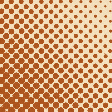
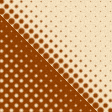
Add Cutout pattern and deepen Amber and Crimson palettes

diff --git a/src/perforated-screen.js b/src/perforated-screen.js
@@ -1,0 +1,51 @@
+// CPU adaptation of Paper Shaders' halftone-dots getCircleWithHole treatment.
+// https://github.com/paper-design/shaders/blob/main/packages/shaders/src/shaders/halftone-dots.ts
+// Apache-2.0; license and NOTICE: public/licenses/paper-shaders/.
+// Changes: cached centre samples, rotated screen, analytic pixel antialiasing,
+// cancellable row chunks, and preservation of the source image's alpha.
+import { samplePaperDarkness } from './paper-screen.js';
+
+export function* renderPerforatedRows(ctx, source, width, height, settings, ink, paper) {
+  const image = ctx.createImageData(width, height);
+  const out = image.data;
+  const cell = Math.max(1, settings.cellSize);
+  const cos = Math.cos(settings.angle), sin = Math.sin(settings.angle);
+  const offsetX = Math.ceil((width * Math.abs(cos) + height * Math.abs(sin)) / (2 * cell)) + 1;
+  const offsetY = Math.ceil((width * Math.abs(sin) + height * Math.abs(cos)) / (2 * cell)) + 1;
+  const stride = offsetX * 2 + 1;
+  const radii = new Float32Array(stride * (offsetY * 2 + 1)).fill(NaN);
+  for (let y = 0; y < height; y++) {
+    const py = y + .5 - height / 2;
+    for (let x = 0; x < width; x++) {
+      const px = x + .5 - width / 2;
+      const gx = (px * cos + py * sin) / cell;
+      const gy = (-px * sin + py * cos) / cell;
+      const cx = Math.round(gx), cy = Math.round(gy);
+      const index = (cy + offsetY) * stride + cx + offsetX;
+      if (Number.isNaN(radii[index])) {
+        const sx = (cx * cos - cy * sin) * cell + width / 2;
+        const sy = (cx * sin + cy * cos) * cell + height / 2;
+        radii[index] = .75 * samplePaperDarkness(source, width, height, sx, sy, settings);
+      }
+      const radius = radii[index];
+      const hole = radius >= .5;
+      const r = hole ? radius - .5 : radius;
+      const dx = gx - cx, dy = gy - cy;
+      const distance = Math.hypot(dx, dy);
+      const aa = Math.max(.5, (Math.abs(dx) + Math.abs(dy)) / Math.max(distance, .0001)) / cell;
+      const t = Math.max(0, Math.min(1, (r - distance + aa) / (2 * aa)));
+      const circle = t * t * (3 - 2 * t);
+      const mask = hole ? 1 - circle : circle;
+      const alpha = mask * ink[3] / 255;
+      const background = paper[3] / 255 * (1 - alpha);
+      const total = alpha + background;
+      const i = (y * width + x) * 4;
+      for (let channel = 0; channel < 3; channel++) {
+        out[i + channel] = total ? (ink[channel] * alpha + paper[channel] * background) / total : 0;
+      }
+      out[i + 3] = total * source[i + 3];
+    }
+    if (y % 24 === 23) yield (y + 1) / height;
+  }
+  ctx.putImageData(image, 0, 0);
+}

diff --git a/test/halftone-renderer.test.js b/test/halftone-renderer.test.js
@@ -194,3 +194,36 @@ test('Dots ignore invisible RGB when sampling and retain source alpha at rotated
     for (let i = 3; i < source.length; i += 4) assert.equal(pixels[i], source[i]);
   }
 });
+
+test('Perforated changes round marks into holes in filled cells and preserves alpha', async () => {
+  const width = 96, height = 96;
+  const source = new Uint8ClampedArray(width * height * 4);
+  const fill = (value) => {
+    for (let i = 0; i < source.length; i += 4) {
+      source[i] = source[i + 1] = source[i + 2] = value;
+      source[i + 3] = 255;
+    }
+  };
+  const perforated = { ...settings, cellSize: 16, screenStyle: 'perforated', invert: true };
+  const a = createCanvas(width, height).getContext('2d');
+  const b = createCanvas(width, height).getContext('2d');
+  fill(128);
+  renderHalftoneSync(a, source, width, height, perforated);
+  assert.ok(a.getImageData(48, 48, 1, 1).data[0] < 10, 'midtone has a round ink mark');
+  assert.ok(a.getImageData(55, 55, 1, 1).data[0] > 245, 'its cell corners remain paper');
+  fill(255);
+  renderHalftoneSync(a, source, width, height, perforated);
+  assert.ok(a.getImageData(48, 48, 1, 1).data[0] > 245, 'bright cell has a paper hole');
+  assert.ok(a.getImageData(55, 55, 1, 1).data[0] < 10, 'surrounding cell is filled with ink');
+  for (let i = 3; i < source.length; i += 4) source[i] = [0, 64, 128, 255][(i >> 2) % 4];
+  const rotated = { ...perforated, angle: .49 };
+  renderHalftoneSync(a, source, width, height, rotated);
+  await renderHalftoneAsync(b, source, width, height, rotated);
+  const pixels = a.getImageData(0, 0, width, height).data;
+  assert.deepEqual(pixels, b.getImageData(0, 0, width, height).data);
+  for (let i = 3; i < source.length; i += 4) assert.equal(pixels[i], source[i]);
+  let cancelled = false;
+  assert.deepEqual(await renderHalftoneAsync(b, source, width, height, rotated, {
+    onProgress() { cancelled = true; }, shouldCancel: () => cancelled
+  }), { cancelled: true });
+});

diff --git a/test/studio-panel.test.js b/test/studio-panel.test.js
@@ -1254,7 +1254,7 @@ test('preset menu shows four rows and a next-row peek within the viewport', asyn
   } finally { cleanup(); popup.remove(); }
 });
 
-test('Pattern exposes Organic, Dots and Lines with the right selection', () => {
+test('Pattern exposes Organic, Dots, Cutout and Lines with the right selection', () => {
   state.settings.dotShape = 'round';
   state.settings.screenStyle = 'paper';
   emit();
@@ -1263,11 +1263,26 @@ test('Pattern exposes Organic, Dots and Lines with the right selection', () => {
   assert.equal(section.querySelector('.dialkit-folder-title').textContent, 'Pattern');
   assert.equal(pattern.parentElement.querySelector('.segmented-field-label'), null);
   assert.deepEqual([...pattern.querySelectorAll('button')].map(button => button.textContent),
-    ['Organic', 'Dots', 'Lines']);
+    ['Organic', 'Dots', 'Cutout', 'Lines']);
   assert.equal(pattern.querySelector('[aria-checked="true"]').textContent, 'Organic');
   pattern.querySelector('[data-value="round"]').click();
   assert.deepEqual(settingsChanged.at(-1), ['pattern', 'round']);
   state.settings.screenStyle = 'classic';
   emit();
   assert.equal(pattern.querySelector('[aria-checked="true"]').textContent, 'Dots');
+});
+
+test('Cutout remains selectable alongside the other patterns', () => {
+  state.settings.screenStyle = 'perforated';
+  state.settings.dotShape = 'round';
+  emit();
+  const pattern = document.querySelector('[role="radiogroup"][aria-label="Pattern"]');
+  assert.equal(pattern.parentElement.hidden, false);
+  assert.equal(pattern.querySelectorAll('button').length, 4);
+  assert.equal(pattern.querySelector('[aria-checked="true"]').textContent, 'Cutout');
+  assert.ok(document.querySelector('[role="slider"][aria-label="Cell size"]'));
+  state.settings.screenStyle = 'paper';
+  emit();
+  assert.equal(pattern.parentElement.hidden, false);
+  assert.equal(pattern.querySelector('[aria-checked="true"]').textContent, 'Organic');
 });

diff --git a/src/paper-screen.js b/src/paper-screen.js
@@ -11,7 +11,7 @@ const profile = Float32Array.from({ length: PROFILE_SIZE + 1 }, (_, i) => {
 });
 const clamp = (n, lo, hi) => Math.max(lo, Math.min(hi, n));
 
-function sampleDarkness(source, width, height, x, y, settings) {
+export function samplePaperDarkness(source, width, height, x, y, settings) {
   // Bilinear sampling, like the source texture in Paper's shader. Composite
   // samples onto white before interpolation so invisible RGB cannot add ink.
   x = clamp(x - .5, 0, width - 1);
@@ -23,7 +23,7 @@ function sampleDarkness(source, width, height, x, y, settings) {
     (y1 * width + x0) * 4, (y1 * width + x1) * 4];
   const weights = [(1 - tx) * (1 - ty), tx * (1 - ty), (1 - tx) * ty, tx * ty];
   // Paper's default contrast .4 maps to a sigmoid slope of 3.7947.
-  const slope = 15 * Math.pow(.4, 1.5) * settings.contrast;
+  const slope = (settings.screenStyle === 'perforated' ? 15 : 15 * Math.pow(.4, 1.5)) * settings.contrast;
   let luma = 0;
   for (let channel = 0; channel < 3; channel++) {
     let value = 0;
@@ -65,7 +65,7 @@ export function* renderPaperRows(ctx, source, width, height, settings, ink, pape
         if ((gx + gy) % 2 !== 0) continue;
         const cx = (gx * cos - gy * sin) * pitch + width / 2;
         const cy = (gx * sin + gy * cos) * pitch + height / 2;
-        const radius = maxRadius * sampleDarkness(source, width, height, cx, cy, settings);
+        const radius = maxRadius * samplePaperDarkness(source, width, height, cx, cy, settings);
         if (radius < .001) continue;
         const x0 = Math.max(-1, Math.ceil(cx - radius - .5));
         const x1 = Math.min(width, Math.floor(cx + radius - .5));

diff --git a/script.js b/script.js
@@ -269,10 +269,10 @@ const builtInPresets = {
     microDot: 0,
     jitter: 0,
     seed: 11,
-    inkColor: "#b8202a",
+    inkColor: "#9f0019",
     paperColor: "#f5f5f5"
   },
-  // A coarser diagonal screen of textured dots and grain on warm paper.
+  // A diagonal cutout screen with burnt amber ink and grain on warm paper.
   orange: {
     quality: "high",
     cellSize: 7,
@@ -285,7 +285,8 @@ const builtInPresets = {
     jitter: 18,
     seed: 42,
     dotShape: "round",
-    inkColor: "#ad551e",
+    screenStyle: "perforated",
+    inkColor: "#913f00",
     paperColor: "#f3dfbc",
     grainStrength: 14
   },
@@ -2439,8 +2440,8 @@ editorSession = mountEditorSession({
   restore: (saved) => {
     const settings = sanitizePreset(saved.settings);
     if (!settings) return;
-    // The local Paper comparison preset is now the built-in Soft Print.
-    const selectedPreset = saved.selectedPreset === "paper" && !Object.hasOwn(customPresets, "paper")
+    // Retired local comparison presets retain edits under Soft Print.
+    const selectedPreset = ["paper", "perforated"].includes(saved.selectedPreset) && !Object.hasOwn(customPresets, saved.selectedPreset)
       ? "fine" : saved.selectedPreset;
     const knownPreset = typeof selectedPreset === "string"
       && (Object.hasOwn(builtInPresets, selectedPreset) || Object.hasOwn(customPresets, selectedPreset));

diff --git a/test/editor-session-integration.test.js b/test/editor-session-integration.test.js
@@ -465,3 +465,26 @@ test('Soft Print replaces the local Paper preset and restores its previous sessi
     assert.equal(editor.studio.getState().presetModified, false);
   } finally { await editor.close(); }
 });
+
+test('Cutout works on every built-in and custom preset without changing palette or tone controls', async () => {
+  const editor = await openEditor();
+  const { studio } = editor;
+  try {
+    const presets = studio.getState().presets;
+    assert.equal(presets.some(p => p.value === 'perforated'), false);
+    for (const { value } of presets) {
+      studio.selectPreset(value);
+      const original = studio.getState().settings;
+      studio.setSetting('pattern', 'cutout');
+      assert.deepEqual(studio.getState().settings, { ...original, dotShape: 'round', screenStyle: 'perforated' });
+    }
+    assert.equal(studio.savePreset('Custom cutout').ok, true);
+    studio.selectPreset('red');
+    studio.selectPreset('Custom cutout');
+    assert.equal(studio.getState().settings.screenStyle, 'perforated');
+    studio.setSetting('pattern', 'line');
+    assert.equal(studio.getState().settings.screenStyle, 'classic');
+    studio.setSetting('pattern', 'cutout');
+    assert.equal(studio.getState().settings.screenStyle, 'perforated');
+  } finally { await editor.close(); }
+});

diff --git a/src/screen-settings.js b/src/screen-settings.js
@@ -1,7 +1,7 @@
 export const DOT_SHAPES = ['round', 'square', 'diamond', 'line'];
 
 // Presets saved before these settings existed render as round, un-inverted dots.
-export const SCREEN_STYLES = ['classic', 'paper'];
+export const SCREEN_STYLES = ['classic', 'paper', 'perforated'];
 export const SCREEN_DEFAULTS = { dotShape: 'round', invert: false, screenStyle: 'classic' };
 
 export function normalizeScreenValue(key, value) {
@@ -26,12 +26,14 @@ export function screenValue(preset, key) {
 }
 
 export function patternSettings(pattern) {
+  if (pattern === 'cutout') return { dotShape: 'round', screenStyle: 'perforated' };
   if (pattern === 'organic') return { dotShape: 'round', screenStyle: 'paper' };
   if (['round', 'line'].includes(pattern)) return { dotShape: pattern, screenStyle: 'classic' };
   return null;
 }
 
 export function selectedPattern(settings) {
+  if (settings.screenStyle === 'perforated') return 'cutout';
   const shape = screenValue(settings, 'dotShape');
   return shape === 'round' && screenValue(settings, 'screenStyle') === 'paper' ? 'organic' : shape;
 }

diff --git a/src/halftone-renderer.js b/src/halftone-renderer.js
@@ -1,3 +1,4 @@
+import { renderPerforatedRows } from './perforated-screen.js';
 import { sampleDotCellTones } from './dot-cell-tones.js';
 import { renderPaperRows } from './paper-screen.js';
 import { toneLuma } from '../renderer-core.js';
@@ -53,6 +54,10 @@ function readColor(ctx, color) {
 function* renderRows(ctx, source, width, height, settings) {
   const ink = readColor(ctx, settings.ink);
   const paper = readColor(ctx, settings.paper);
+  if (settings.screenStyle === 'perforated') {
+    yield* renderPerforatedRows(ctx, source, width, height, settings, ink, paper);
+    return;
+  }
   if (settings.dotShape === 'gooey' || (settings.screenStyle === 'paper' && (!settings.dotShape || settings.dotShape === 'round'))) {
     yield* renderPaperRows(ctx, source, width, height, settings, ink, paper);
     return;

diff --git a/test/export-worker.test.js b/test/export-worker.test.js
@@ -81,7 +81,7 @@ for (const format of ['png', 'webp', 'jpeg']) test(`${format} cutout exports pre
   assert.ok(pixels.some((value, index) => index % 4 === 3 && value > 0 && pixels[index - 1] < 100));
 });
 
-for (const screenStyle of ['classic', 'paper']) for (const format of ['png', 'jpeg', 'webp', 'effects']) test(`export uses preview renderer: ${screenStyle} ${format}`, async () => {
+for (const screenStyle of ['classic', 'paper', 'perforated']) for (const format of ['png', 'jpeg', 'webp', 'effects']) test(`export uses preview renderer: ${screenStyle} ${format}`, async () => {
   nativeWebp = true;
   progress = [];
   const width = 192, height = 240;

diff --git a/test/preset-transfer.test.js b/test/preset-transfer.test.js
@@ -70,3 +70,9 @@ test('retired diamond and square recipes import as Dots with other settings inta
     for (const key of [...Object.keys(settings), 'jitter', 'microDot', 'seed']) assert.equal(restored[key], original[key]);
   }
 });
+
+test('Perforated recipe retains its treatment through preset export and import', () => {
+  const recipe = { ...settings, dotShape: 'round', screenStyle: 'perforated', invert: true };
+  const restored = parsePreset(serializePreset('Perforated custom', recipe).text, isColor).settings;
+  for (const key of Object.keys(recipe)) assert.equal(restored[key], recipe[key]);
+});

diff --git a/src/studio-panel.js b/src/studio-panel.js
@@ -14,7 +14,7 @@ const titleCase = (value) => value[0].toUpperCase() + value.slice(1);
 const PROFILE_OPTIONS = ["draft", "high", "ultra", "print"].map((value) => ({ value, label: titleCase(value) }));
 const PATTERN_OPTIONS = [
   { value: 'organic', label: 'Organic' }, { value: 'round', label: 'Dots' },
-  { value: 'line', label: 'Lines' }
+  { value: 'cutout', label: 'Cutout' }, { value: 'line', label: 'Lines' }
 ];
 const INVERT_OPTIONS = [{ value: false, label: "Off" }, { value: true, label: "On" }];
 
